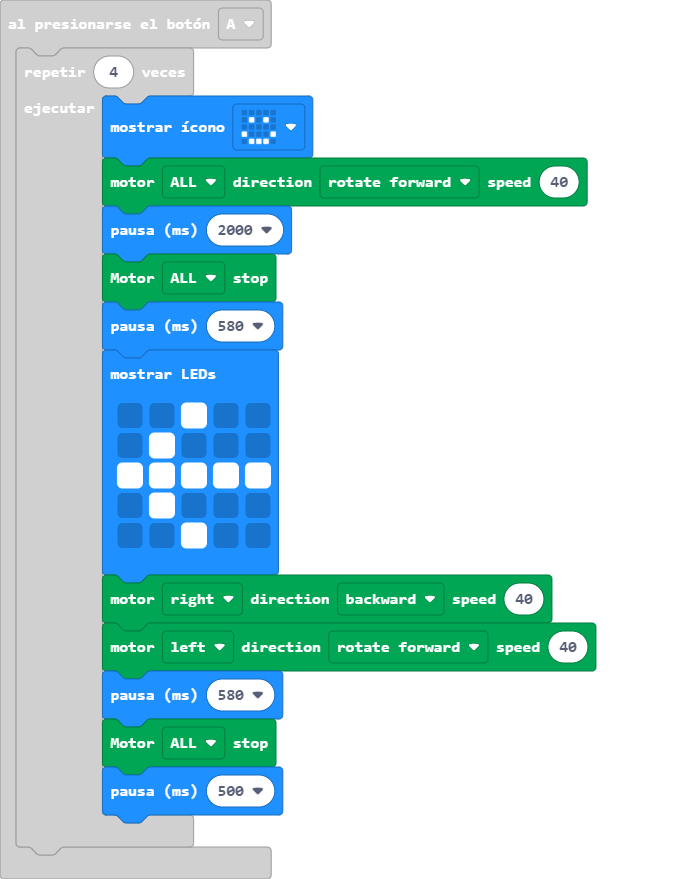
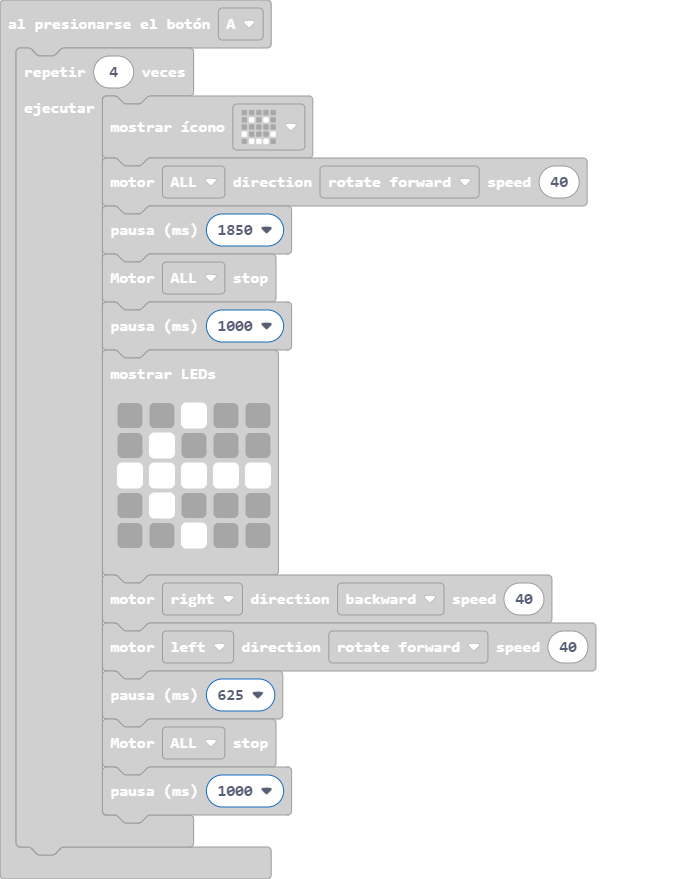
Actualizar main.blocks, main.ts

Changed region(s): [[0.12, 0.0922, 0.87, 0.9522]]

diff --git a/main.ts b/main.ts
@@ -2,9 +2,9 @@ input.onButtonPressed(Button.A, function () {
     for (let index = 0; index < 4; index++) {
         basic.showIcon(IconNames.Happy)
         DFRobotMaqueenPlus.mototRun(Motors.ALL, Dir.CW, 40)
-        basic.pause(2000)
+        basic.pause(1850)
         DFRobotMaqueenPlus.mototStop(Motors.ALL)
-        basic.pause(580)
+        basic.pause(1000)
         basic.showLeds(`
             . . # . .
             . # . . .
@@ -14,9 +14,9 @@ input.onButtonPressed(Button.A, function () {
             `)
         DFRobotMaqueenPlus.mototRun(Motors.M2, Dir.CCW, 40)
         DFRobotMaqueenPlus.mototRun(Motors.M1, Dir.CW, 40)
-        basic.pause(580)
+        basic.pause(625)
         DFRobotMaqueenPlus.mototStop(Motors.ALL)
-        basic.pause(500)
+        basic.pause(1000)
     }
 })
 DFRobotMaqueenPlus.I2CInit()
